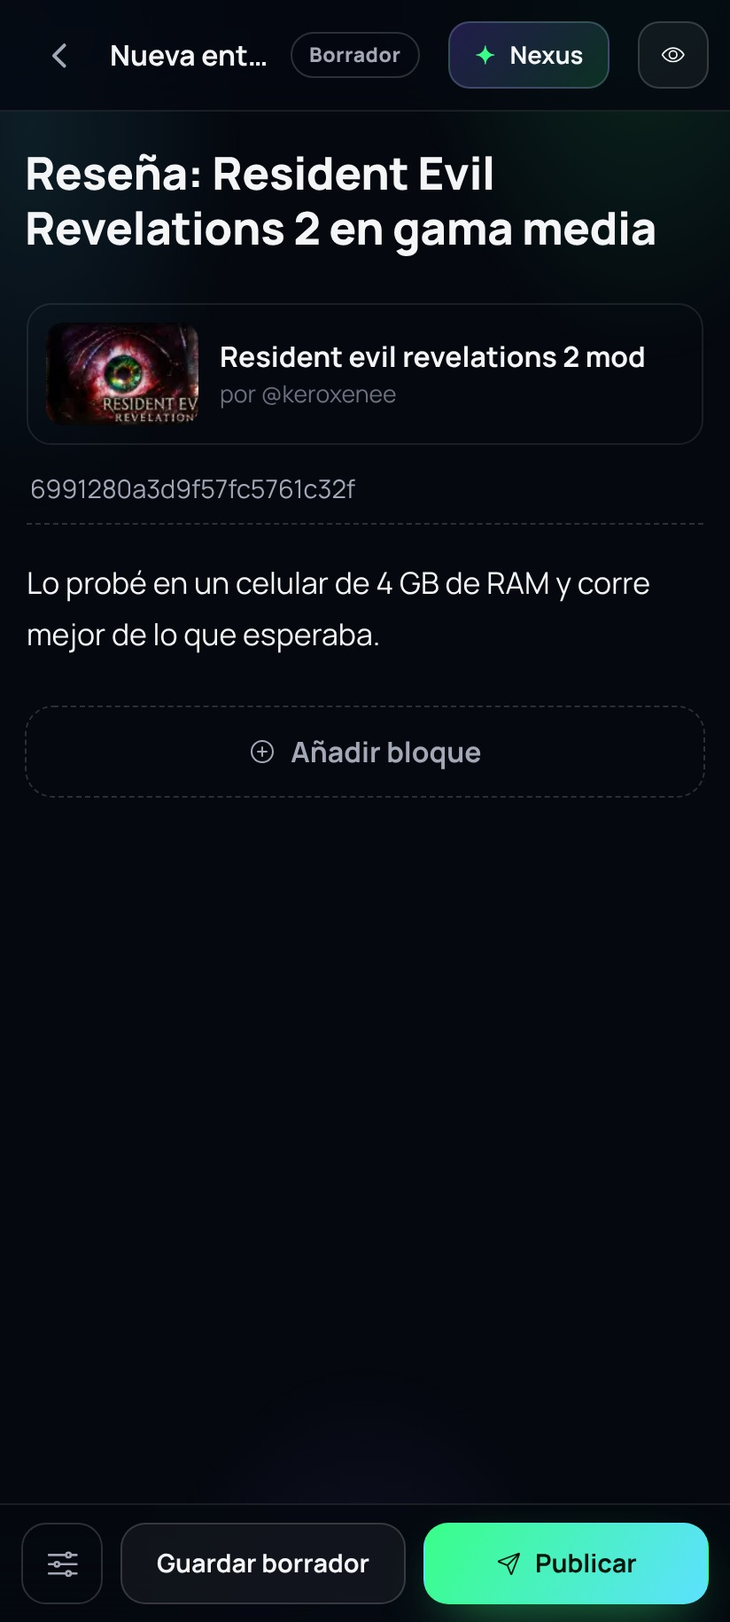
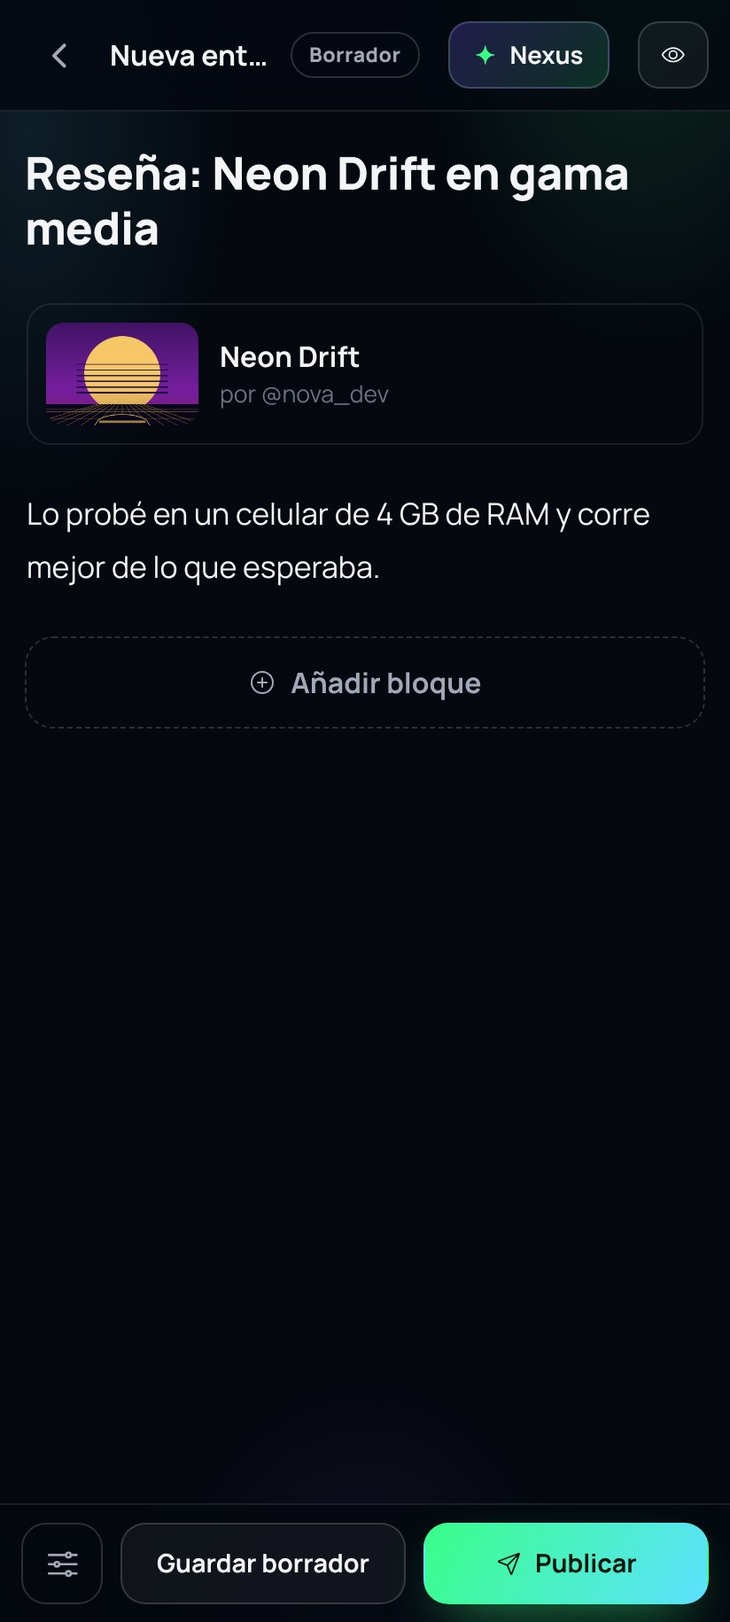
Video Todo UpGames: sin portadas ni juegos comerciales (ilustraciones propias de demostración)
- portadas.js genera portadas, avatar y banner propios con títulos y estudios inventados
- capturar.js usa un catálogo de demostración (ninguna lectura a producción) y las portadas propias
- Capturas regeneradas; el pie del video aclara que el contenido y las cifras son de demostración

Claude-Session: https://claude.ai/code/session_017LtceEAPy6W7rveJiPpW5i

diff --git a/marketing/ecosistema/portadas.js b/marketing/ecosistema/portadas.js
@@ -1,0 +1,93 @@
+#!/usr/bin/env node
+/**
+ * Portadas e imágenes de DEMOSTRACIÓN para el video: ilustraciones propias (hechas con código) con títulos y estudios
+ * inventados, para no mostrar portadas ni marcas de juegos comerciales. Las usa capturar.js en lugar del catálogo real.
+ * Uso: node portadas.js   → portadas/*.jpg (600×800 a 2×), avatar y banner
+ */
+'use strict';
+const path = require('path'), fs = require('fs');
+const { navegador } = require('../../test/real/util');
+const OUT = path.join(__dirname, 'portadas');
+
+const R = s => { let x = Math.sin(s * 127.1) * 43758.5453; return x - Math.floor(x); };
+const estrellas = (n, sem, w = 600, h = 520) => Array.from({ length: n }, (_, i) => `<circle cx="${R(sem + i) * w}" cy="${R(sem + i + 99) * h}" r="${.6 + R(sem + i + 7) * 1.8}" fill="#fff" opacity="${.3 + R(sem + i + 3) * .7}"/>`).join('');
+const MOTIVOS = {
+  // atardecer sobre una pista con un auto de líneas simples
+  sunsetCar: (c) => `<defs><linearGradient id="s" x1="0" y1="0" x2="0" y2="1"><stop offset="0" stop-color="${c[0]}"/><stop offset=".6" stop-color="${c[1]}"/><stop offset="1" stop-color="${c[2]}"/></linearGradient></defs>
+    <rect width="600" height="800" fill="url(#s)"/><circle cx="300" cy="400" r="150" fill="${c[3]}" opacity=".95"/>${[0, 1, 2, 3, 4, 5].map(i => `<rect x="120" y="${360 + i * 22}" width="360" height="${3 + i}" fill="${c[0]}" opacity=".9"/>`).join('')}
+    <path d="M0 520 L600 520 L600 800 L0 800Z" fill="#0b0720"/>${Array.from({ length: 14 }, (_, i) => `<path d="M${300 + (i - 7) * 14} 520 L${300 + (i - 7) * 150} 800" stroke="${c[3]}" stroke-width="2" opacity=".55"/>`).join('')}
+    ${Array.from({ length: 6 }, (_, i) => `<path d="M0 ${540 + i * i * 9} L600 ${540 + i * i * 9}" stroke="${c[3]}" stroke-width="2" opacity=".4"/>`).join('')}
+    <g transform="translate(300 600)"><path d="M-120 20 L-95 -18 Q-60 -40 0 -40 Q60 -40 95 -18 L120 20 Q0 36 -120 20Z" fill="#0b0720" stroke="${c[3]}" stroke-width="3"/><rect x="-92" y="-16" width="184" height="10" rx="5" fill="${c[3]}" opacity=".8"/><circle cx="-76" cy="24" r="17" fill="#0b0720" stroke="${c[3]}" stroke-width="3"/><circle cx="76" cy="24" r="17" fill="#0b0720" stroke="${c[3]}" stroke-width="3"/></g>`,
+  planet: (c) => `<rect width="600" height="800" fill="${c[0]}"/>${estrellas(90, 3)}<defs><radialGradient id="p" cx=".35" cy=".3" r=".9"><stop offset="0" stop-color="${c[3]}"/><stop offset=".55" stop-color="${c[2]}"/><stop offset="1" stop-color="${c[1]}"/></radialGradient></defs>
+    <circle cx="300" cy="330" r="190" fill="url(#p)"/><ellipse cx="300" cy="350" rx="320" ry="62" fill="none" stroke="${c[3]}" stroke-width="10" opacity=".75" transform="rotate(-16 300 350)"/>
+    <path d="M110 330 A190 190 0 0 1 490 330" fill="none" stroke="#fff" stroke-opacity=".12" stroke-width="3"/><circle cx="478" cy="170" r="22" fill="${c[3]}" opacity=".9"/><circle cx="120" cy="560" r="10" fill="${c[3]}" opacity=".8"/>
+    <path d="M0 800 L0 640 Q150 590 300 650 T600 620 L600 800Z" fill="#000" opacity=".5"/>`,
+  peaks: (c) => `<defs><linearGradient id="k" x1="0" y1="0" x2="0" y2="1"><stop offset="0" stop-color="${c[0]}"/><stop offset="1" stop-color="${c[1]}"/></linearGradient></defs><rect width="600" height="800" fill="url(#k)"/>
+    <circle cx="420" cy="260" r="80" fill="${c[3]}" opacity=".9"/>${estrellas(40, 11, 600, 300)}
+    <path d="M0 640 L120 430 L210 540 L330 330 L460 520 L540 440 L600 520 L600 800 L0 800Z" fill="${c[2]}"/><path d="M0 700 L90 560 L200 650 L320 500 L430 640 L600 540 L600 800 L0 800Z" fill="#000" opacity=".45"/>
+    <path d="M330 330 L300 400 L330 380 L350 420 L372 385Z" fill="#fff" opacity=".5"/>${Array.from({ length: 16 }, (_, i) => `<circle cx="${R(i) * 600}" cy="${560 + R(i + 40) * 200}" r="${1 + R(i + 9) * 3}" fill="${c[3]}" opacity=".8"/>`).join('')}`,
+  blade: (c) => `<rect width="600" height="800" fill="${c[0]}"/><defs><linearGradient id="b" x1="0" y1="0" x2="1" y2="1"><stop offset="0" stop-color="${c[3]}"/><stop offset="1" stop-color="${c[2]}"/></linearGradient></defs>
+    ${[0, 1, 2, 3, 4, 5, 6].map(i => `<path d="M${-80 + i * 110} 800 L${240 + i * 60} 0" stroke="${c[1]}" stroke-width="${30 + i * 4}" opacity=".35"/>`).join('')}
+    <g transform="translate(300 380) rotate(-35)"><path d="M0 -300 L28 160 L0 220 L-28 160Z" fill="url(#b)"/><path d="M0 -300 L0 220" stroke="#fff" stroke-opacity=".6" stroke-width="3"/><rect x="-80" y="150" width="160" height="22" rx="11" fill="${c[3]}"/><rect x="-14" y="170" width="28" height="90" rx="10" fill="${c[1]}"/></g>
+    ${estrellas(50, 21, 600, 800)}`,
+  garden: (c) => `<defs><radialGradient id="g" cx=".5" cy=".7" r=".8"><stop offset="0" stop-color="${c[2]}"/><stop offset="1" stop-color="${c[0]}"/></radialGradient></defs><rect width="600" height="800" fill="url(#g)"/>
+    ${Array.from({ length: 9 }, (_, i) => { const x = 40 + i * 64, h = 160 + R(i + 5) * 260; return `<path d="M${x} 800 Q${x + 30 * (R(i) - .5) * 2} ${800 - h / 2} ${x + 10} ${800 - h}" stroke="${c[1]}" stroke-width="10" fill="none" stroke-linecap="round"/><circle cx="${x + 10}" cy="${800 - h}" r="${22 + R(i + 2) * 18}" fill="${c[3]}" opacity=".95"/><circle cx="${x + 10}" cy="${800 - h}" r="${46 + R(i + 2) * 30}" fill="${c[3]}" opacity=".18"/>`; }).join('')}
+    ${Array.from({ length: 30 }, (_, i) => `<circle cx="${R(i + 60) * 600}" cy="${R(i + 61) * 700}" r="${1.5 + R(i) * 3}" fill="${c[3]}" opacity=".7"/>`).join('')}`,
+  moon: (c) => `<defs><linearGradient id="m" x1="0" y1="0" x2="0" y2="1"><stop offset="0" stop-color="${c[0]}"/><stop offset="1" stop-color="${c[1]}"/></linearGradient></defs><rect width="600" height="800" fill="url(#m)"/>${estrellas(60, 31, 600, 500)}
+    <circle cx="300" cy="300" r="170" fill="${c[3]}"/><circle cx="360" cy="270" r="170" fill="${c[1]}" opacity=".0"/><circle cx="250" cy="260" r="26" fill="#000" opacity=".12"/><circle cx="350" cy="350" r="40" fill="#000" opacity=".1"/>
+    <path d="M0 800 L0 600 Q60 540 120 600 L120 470 L150 440 L180 470 L180 600 Q300 520 420 600 L420 500 L470 450 L520 500 L520 600 Q570 560 600 600 L600 800Z" fill="#000"/>
+    <rect x="132" y="520" width="14" height="22" fill="${c[3]}" opacity=".9"/><rect x="452" y="540" width="14" height="22" fill="${c[3]}" opacity=".9"/>`,
+  waves: (c) => `<rect width="600" height="800" fill="${c[0]}"/><defs><linearGradient id="w" x1="0" y1="0" x2="0" y2="1"><stop offset="0" stop-color="${c[3]}"/><stop offset="1" stop-color="${c[1]}"/></linearGradient></defs>
+    <circle cx="300" cy="300" r="120" fill="${c[3]}"/>${[0, 1, 2, 3, 4, 5, 6].map(i => `<path d="M0 ${420 + i * 60} Q75 ${390 + i * 60} 150 ${420 + i * 60} T300 ${420 + i * 60} T450 ${420 + i * 60} T600 ${420 + i * 60} L600 800 L0 800Z" fill="${i % 2 ? c[1] : c[2]}" opacity="${.55 + i * .07}"/>`).join('')}
+    ${Array.from({ length: 12 }, (_, i) => `<rect x="${R(i + 2) * 560}" y="${R(i + 3) * 380}" width="14" height="14" fill="#fff" opacity=".6"/>`).join('')}`,
+  station: (c) => `<rect width="600" height="800" fill="${c[0]}"/>${estrellas(80, 41, 600, 800)}<g transform="translate(300 380)"><circle r="120" fill="${c[2]}" stroke="${c[3]}" stroke-width="6"/><circle r="70" fill="${c[1]}" stroke="${c[3]}" stroke-width="4"/>
+    <rect x="-300" y="-16" width="600" height="32" fill="${c[1]}" stroke="${c[3]}" stroke-width="3"/>${[-250, -200, 200, 250].map(x => `<rect x="${x - 22}" y="-90" width="44" height="180" fill="${c[3]}" opacity=".35" stroke="${c[3]}"/>`).join('')}
+    ${Array.from({ length: 8 }, (_, i) => `<circle cx="${Math.cos(i * .785) * 95}" cy="${Math.sin(i * .785) * 95}" r="7" fill="${c[3]}"/>`).join('')}</g>`,
+  orb: (c) => `<defs><radialGradient id="o" cx=".5" cy=".5" r=".5"><stop offset="0" stop-color="#fff"/><stop offset=".25" stop-color="${c[3]}"/><stop offset="1" stop-color="${c[0]}" stop-opacity="0"/></radialGradient></defs><rect width="600" height="800" fill="${c[0]}"/>
+    <circle cx="300" cy="360" r="330" fill="url(#o)"/>${[1, 2, 3, 4, 5].map(i => `<circle cx="300" cy="360" r="${60 + i * 52}" fill="none" stroke="${c[3]}" stroke-width="1.5" opacity="${.5 - i * .07}"/>`).join('')}
+    ${Array.from({ length: 22 }, (_, i) => { const a = i * .6, r = 90 + i * 11; return `<circle cx="${300 + Math.cos(a) * r}" cy="${360 + Math.sin(a) * r}" r="${2 + R(i) * 4}" fill="#fff" opacity=".8"/>`; }).join('')}`,
+  circuit: (c) => `<rect width="600" height="800" fill="${c[0]}"/>${Array.from({ length: 16 }, (_, i) => { const y = 80 + i * 44, x1 = R(i + 70) * 200, x2 = 300 + R(i + 71) * 300; return `<path d="M0 ${y} H${x1} L${x1 + 40} ${y + 22} H${x2} L${x2 + 30} ${y} H600" fill="none" stroke="${c[2]}" stroke-width="3" opacity=".7"/><circle cx="${x1 + 40}" cy="${y + 22}" r="6" fill="${c[3]}"/><circle cx="${x2 + 30}" cy="${y}" r="6" fill="${c[3]}"/>`; }).join('')}
+    <g transform="translate(300 400)"><path d="M-130 40 L-100 -30 Q-60 -60 0 -60 Q60 -60 100 -30 L130 40 Q0 62 -130 40Z" fill="${c[1]}" stroke="${c[3]}" stroke-width="4"/><circle cx="-80" cy="48" r="22" fill="${c[0]}" stroke="${c[3]}" stroke-width="4"/><circle cx="80" cy="48" r="22" fill="${c[0]}" stroke="${c[3]}" stroke-width="4"/><path d="M-70 -32 Q0 -52 70 -32" stroke="${c[3]}" stroke-width="5" fill="none"/></g>`,
+  dunes: (c) => `<defs><linearGradient id="d" x1="0" y1="0" x2="0" y2="1"><stop offset="0" stop-color="${c[0]}"/><stop offset=".55" stop-color="${c[1]}"/><stop offset="1" stop-color="${c[2]}"/></linearGradient></defs><rect width="600" height="800" fill="url(#d)"/>
+    <circle cx="300" cy="330" r="110" fill="${c[3]}" opacity=".95"/>${[0, 1, 2, 3].map(i => `<path d="M0 ${520 + i * 70} Q150 ${440 + i * 70} 320 ${520 + i * 70} T600 ${500 + i * 70} L600 800 L0 800Z" fill="${c[2]}" opacity="${.35 + i * .2}"/>`).join('')}
+    <g transform="translate(300 480)"><path d="M-6 0 L0 -70 L6 0Z" fill="#000"/><circle cx="0" cy="-78" r="8" fill="#000"/><path d="M-30 -40 L30 -40" stroke="#000" stroke-width="4"/></g>`,
+  stars: (c) => `<defs><radialGradient id="n" cx=".5" cy=".4" r=".8"><stop offset="0" stop-color="${c[2]}"/><stop offset="1" stop-color="${c[0]}"/></radialGradient></defs><rect width="600" height="800" fill="url(#n)"/>${estrellas(140, 51, 600, 800)}
+    <path d="M300 130 L335 270 L480 300 L335 335 L300 480 L265 335 L120 300 L265 270Z" fill="${c[3]}"/><path d="M300 130 L335 270 L480 300 L335 335 L300 480 L265 335 L120 300 L265 270Z" fill="none" stroke="#fff" stroke-width="3" opacity=".8"/>
+    <circle cx="300" cy="300" r="260" fill="none" stroke="${c[3]}" stroke-width="1.5" opacity=".4"/><circle cx="300" cy="300" r="200" fill="none" stroke="${c[3]}" stroke-width="1.5" opacity=".3"/>`,
+};
+// título, estudio ficticio, paleta [fondo, medio, oscuro/acento, brillo], motivo
+const PORTADAS = [
+  ['neon-drift', 'NEON DRIFT', 'sunsetCar', ['#1a0b3b', '#7a1fa2', '#ff3d81', '#ffd166']],
+  ['void-harvest', 'VOID HARVEST', 'planet', ['#050a1c', '#10286b', '#2d6df6', '#7dd3fc']],
+  ['emberfall', 'EMBERFALL', 'peaks', ['#2a0a0a', '#7a1d12', '#c2410c', '#ffb347']],
+  ['skyblade', 'SKYBLADE', 'blade', ['#04141c', '#0a4a5a', '#0ea5b7', '#a7f3d0']],
+  ['echo-garden', 'ECHO GARDEN', 'garden', ['#031a14', '#0f766e', '#0b3d2e', '#6ee7b7']],
+  ['crypt-signal', 'CRYPT SIGNAL', 'moon', ['#0a0a14', '#1e1b4b', '#4338ca', '#e0e7ff']],
+  ['pixel-tide', 'PIXEL TIDE', 'waves', ['#07102a', '#1d4ed8', '#38bdf8', '#fde68a']],
+  ['iron-orbit', 'IRON ORBIT', 'station', ['#06080f', '#1f2937', '#475569', '#f59e0b']],
+  ['lumen', 'LUMEN', 'orb', ['#0a0420', '#4c1d95', '#7c3aed', '#c4b5fd']],
+  ['turbo-circuit', 'TURBO CIRCUIT', 'circuit', ['#06121a', '#0e3a4a', '#14b8a6', '#5eead4']],
+  ['ashen-vale', 'ASHEN VALE', 'dunes', ['#2b1408', '#7c3a14', '#3a1d0a', '#fcd34d']],
+  ['starlorn', 'STARLORN', 'stars', ['#03030c', '#1a1050', '#3b2ea8', '#ffd6f5']],
+];
+const pagina = (id, titulo, motivo, c, sub) => `<!DOCTYPE html><html><head><meta charset="utf-8"><link href="https://fonts.googleapis.com/css2?family=Orbitron:wght@800;900&family=Manrope:wght@600;800&display=block" rel="stylesheet">
+<style>html,body{margin:0;width:600px;height:800px;overflow:hidden;background:#000}svg{position:absolute;inset:0}
+.t{position:absolute;left:0;right:0;bottom:70px;text-align:center;font:900 62px/1 Orbitron,sans-serif;color:#fff;letter-spacing:.02em;text-shadow:0 4px 30px rgba(0,0,0,.7),0 0 40px ${c[3]}88;padding:0 24px}
+.s{position:absolute;left:0;right:0;bottom:34px;display:none;text-align:center;font:800 15px Manrope,sans-serif;letter-spacing:.32em;color:${c[3]};text-transform:uppercase}
+.v{position:absolute;inset:0;background:linear-gradient(180deg,rgba(0,0,0,.25),transparent 28%,transparent 56%,rgba(0,0,0,.6))}</style></head>
+<body><svg viewBox="0 0 600 800" width="600" height="800">${MOTIVOS[motivo](c)}</svg><div class="v"></div><div class="t">${titulo}</div><div class="s">${sub}</div></body></html>`;
+
+(async () => {
+  fs.mkdirSync(OUT, { recursive: true });
+  const b = await navegador(), ctx = await b.newContext({ viewport: { width: 600, height: 800 }, deviceScaleFactor: 2 }), p = await ctx.newPage();
+  for (const [id, titulo, motivo, c] of PORTADAS) {
+    await p.setContent(pagina(id, titulo, motivo, c, '')); await p.evaluate(() => document.fonts.ready); await p.waitForTimeout(300);
+    await p.screenshot({ path: path.join(OUT, id + '.jpg'), type: 'jpeg', quality: 90 }); console.log('  ✓', id);
+  }
+  // avatar y banner de la cuenta de demostración
+  const q = await (await b.newContext({ viewport: { width: 400, height: 400 }, deviceScaleFactor: 2 })).newPage();
+  await q.setContent(`<body style="margin:0;width:400px;height:400px;background:radial-gradient(circle at 30% 25%,#5ce1ff,#39ff88 45%,#0b3d2e);display:grid;place-items:center;font:900 190px Orbitron,sans-serif;color:#031109">N</body>`); await q.screenshot({ path: path.join(OUT, 'avatar.jpg'), type: 'jpeg', quality: 90 });
+  const w = await (await b.newContext({ viewport: { width: 1500, height: 500 }, deviceScaleFactor: 1 })).newPage();
+  await w.setContent(`<body style="margin:0;width:1500px;height:500px;background:radial-gradient(60% 90% at 20% 20%,#39ff8866,transparent),radial-gradient(60% 90% at 85% 80%,#8f7bff88,transparent),linear-gradient(120deg,#04101c,#0b1f3a 60%,#1a0f3a)"><svg width="1500" height="500" style="position:absolute">${Array.from({ length: 40 }, (_, i) => `<circle cx="${R(i + 7) * 1500}" cy="${R(i + 8) * 500}" r="${1 + R(i) * 3}" fill="#fff" opacity=".6"/>`).join('')}<path d="M0 420 Q250 330 520 410 T1040 380 T1500 400 V500 H0Z" fill="#000" opacity=".35"/></svg></body>`); await w.screenshot({ path: path.join(OUT, 'banner.jpg'), type: 'jpeg', quality: 90 });
+  await b.close();
+})();

diff --git a/marketing/ecosistema/capturar.js b/marketing/ecosistema/capturar.js
@@ -1,6 +1,6 @@
 #!/usr/bin/env node
 /**
- * Captura pantallas REALES de UpGames para el video «Todo UpGames»: la biblioteca, el carrusel, la ficha,
+" * Captura pantallas de la interfaz REAL de UpGames para el video «Todo UpGames»: la biblioteca, el carrusel, la ficha,
  * el feed de videos, NEXUS, un perfil, UpGames Blogs… con el catálogo y las imágenes reales de producción
  * (solo lecturas) y en un móvil (412×915 a 2×). Las guarda en img/. Uso: node capturar.js [nombre…]
  */
@@ -8,6 +8,17 @@
 const path = require('path'), fs = require('fs');
 const { servir, navegador } = require('../../test/real/util');
 const API = 'https://upgames-production.up.railway.app';
+const DEMO = 'https://demo.upgames.test';   // portadas propias (portadas.js): no se muestran imágenes ni nombres de juegos comerciales
+const hex = n => n.toString(16).padStart(24, '0');
+const FICHA = [  // id, título, categoría, usuario, descargas, reseñas, días
+  ['neon-drift', 'Neon Drift', 'Juego', 'nova_dev', 18420, [4.7, 128], 3], ['void-harvest', 'Void Harvest · mod de rendimiento', 'Mod', 'kale_ab', 9310, [4.4, 61], 5], ['emberfall', 'Emberfall', 'Juego', 'pixelforge', 5120, [4.2, 33], 9],
+  ['skyblade', 'Skyblade', 'Juego', 'nova_dev', 7740, [4.6, 52], 12], ['echo-garden', 'Echo Garden', 'Juego', 'lumen_labs', 3980, [4.8, 40], 2], ['crypt-signal', 'Crypt Signal · optimizado para 4 GB', 'Optimizacion', 'kale_ab', 2210, null, 20],
+  ['pixel-tide', 'Pixel Tide', 'Juego', 'pixelforge', 1530, [4.1, 12], 1], ['iron-orbit', 'Iron Orbit', 'Apps', 'lumen_labs', 6660, [4.5, 47], 15], ['lumen', 'Lumen · editor de luces', 'Apps', 'lumen_labs', 4120, [4.9, 71], 30],
+  ['turbo-circuit', 'Turbo Circuit', 'Juego', 'nova_dev', 11890, [4.5, 96], 4], ['ashen-vale', 'Ashen Vale · pack de texturas', 'Mod', 'kale_ab', 2840, [4.0, 9], 22], ['starlorn', 'Starlorn · gameplay', 'Video', 'nova_dev', 940, null, 6], ['emberfall', 'Emberfall · tráiler', 'Video', 'pixelforge', 2210, null, 7], ['lumen', 'Lumen · tutorial de luces', 'Video', 'lumen_labs', 1560, null, 8]];
+const CATALOGO = FICHA.map(([img, titulo, cat, usuario, d, r, dias], i) => ({ _id: hex(i + 1), title: titulo, usuario, category: cat, status: 'aprobado', linkStatus: 'online', reportes: 0, link: cat === 'Video' ? `${DEMO}/v/${img}.mp4` : 'https://example.com/demo', image: `${DEMO}/portadas/${img}.jpg`,
+  description: 'Proyecto de demostración creado para este video. ' + (cat === 'Mod' ? 'Mejora el rendimiento en celulares de gama media. Contraseña del archivo: demo.' : 'Una experiencia ligera para tu móvil.'),
+  descargasEfectivas: d, descargasSemana: Math.round(d / 40), likesCount: Math.round(d / 90), vistas: d * 3, createdAt: new Date(Date.now() - dias * 864e5).toISOString(), updatedAt: new Date(Date.now() - Math.min(dias, 2) * 864e5).toISOString(),
+  scoreRecomendacion: 100 - i, ...(r ? { resenas: { promedio: r[0], n: r[1] } } : {}), ...(cat === 'Video' ? { videoType: 'Gameplay' } : {}), tags: [], extraData: {} }));
 const OUT = path.join(__dirname, 'img');
 const espera = ms => new Promise(r => setTimeout(r, ms));
 const solo = process.argv.slice(2);
@@ -20,10 +31,18 @@ const quiere = n => !solo.length || solo.includes(n);
   const mock = new Map();   // ruta (regex) → respuesta JSON simulada
   await ctx.route('**/*', async r => {
     const u = r.request().url(), m = r.request().method();
-    if (u.startsWith(web.url) || /res\.cloudinary|fonts\.g|unpkg|ytimg|youtube/.test(u)) return r.continue();
+    if (u.startsWith(web.url) || /fonts\.g|unpkg|ytimg|youtube/.test(u)) return r.continue();
+    if (u.startsWith(DEMO) && /\.mp4/.test(u)) return r.abort();
+    if (u.startsWith(DEMO)) { const f = path.join(__dirname, new URL(u).pathname); return fs.existsSync(f) ? r.fulfill({ body: fs.readFileSync(f), contentType: 'image/jpeg' }) : r.abort(); }
     for (const [re, fn] of mock) if (re.test(u)) return r.fulfill({ status: 200, contentType: 'application/json', headers: { 'access-control-allow-origin': '*' }, body: JSON.stringify(typeof fn === 'function' ? fn(u, m) : fn) });
-    if (u.startsWith(API) && m === 'GET' && !/\/(m|errores|auth|monedas|notificaciones|nexus|guia)\b/.test(u)) {
-      try { const resp = await r.fetch({ headers: { ...r.request().headers(), origin: 'https://upgames.games', referer: 'https://upgames.games/public/biblioteca.html' } }); return r.fulfill({ status: resp.status(), body: await resp.body(), contentType: 'application/json', headers: { 'access-control-allow-origin': '*' } }); } catch (_) { return r.abort(); }
+    if (u.startsWith(API) && m === 'GET') {   // todo el contenido que se ve es de demostración: ninguna lectura va a producción
+      const id = (u.match(/\/items\/([a-f0-9]{24})(\?|$)/) || [])[1];
+      const j = v => r.fulfill({ status: 200, contentType: 'application/json', headers: { 'access-control-allow-origin': '*' }, body: JSON.stringify(v) });
+      if (/\/items(\?.*)?$/.test(u)) return j(CATALOGO);
+      if (id) return j(CATALOGO.find(i => i._id === id) || {});
+      if (/\/items\/user\//.test(u)) return j(CATALOGO.filter(i => i.usuario === decodeURIComponent(u.split('/items/user/')[1].split('?')[0])));
+      if (/\/usuarios\/perfil-publico\//.test(u)) return j({ success: true, usuario: { usuario: 'nova_dev', isVerificado: true, verificadoNivel: 2, avatar: `${DEMO}/portadas/avatar.jpg`, bio: 'Estudio indie · juegos ligeros para móvil', fecha: new Date(Date.now() - 300 * 864e5).toISOString(), socialLinks: [], banner: `${DEMO}/portadas/banner.jpg`, estilo: { insignias: ['ins_fundador'], marco: 'marco_oro', color: 'color_oro', fondo: 'fondo_atardecer', tarjeta: 'tj_carbono' }, coleccion: { total: 3, insignias: ['ins_fundador'] }, premium: true, publicaciones: 3, seguidores: 1280, siguiendo: 14 } });
+      return j([]);
     }
     return r.fulfill({ status: 200, body: '[]', contentType: 'application/json', headers: { 'access-control-allow-origin': '*' } });
   });
@@ -42,7 +61,7 @@ const quiere = n => !solo.length || solo.includes(n);
       await p.evaluate(() => document.querySelector('.ugc-dots [data-dot="2"]')?.click()); await espera(1800); await foto(p, 'carrusel');
     }
     if (quiere('ficha')) {
-      await p.evaluate(() => { const it = todosLosItems.find(i => i.title === 'Resident evil revelations 2 mod') || todosLosItems.find(i => i.category === 'Mod'); openDetail(it); }); await espera(2500); await quitarRuido(p);
+      await p.evaluate(() => { const it = todosLosItems.find(i => i.title === 'Neon Drift'); openDetail(it); }); await espera(2500); await quitarRuido(p);
       await foto(p, 'ficha'); await p.evaluate(() => closeDetail()); await espera(700);
     }
     if (quiere('feed')) {
@@ -53,30 +72,30 @@ const quiere = n => !solo.length || solo.includes(n);
       mock.set(/\/nexus\/historial/, { ok: true, historial: [] });
       mock.set(/\/nexus\/chat/, { ok: true, texto: 'Para tu celular de **4 GB de RAM** te recomiendo estos tres, ordenados por rendimiento:', items: [], acciones: [] });
       await p.evaluate(() => { window.ugPedirSesion = () => true; nxToggle(); }); await espera(1200);
-      await p.evaluate(() => { NX.msgs = [{ rol: 'user', texto: 'Juegos de carreras que corran bien en 4 GB de RAM' }, { rol: 'assistant', texto: 'Encontré **3 juegos de carreras** que corren fluido en 4 GB de RAM. Los ordené por rendimiento real que reportó la comunidad:', items: todosLosItems.filter(i => /nfs|f1|formula|forza|racing|gta/i.test(i.title) && !/mp4|webm/.test(i.image)).slice(0, 3).map(i => ({ id: i._id, titulo: i.title, imagen: i.image, categoria: i.category, descargas: i.descargasEfectivas || 0, autor: i.usuario })), acciones: [] }]; nxPintar(); }); await espera(1500);
+      await p.evaluate(() => { NX.msgs = [{ rol: 'user', texto: 'Juegos de carreras que corran bien en 4 GB de RAM' }, { rol: 'assistant', texto: 'Encontré **3 juegos de carreras** que corren fluido en 4 GB de RAM. Los ordené por rendimiento real que reportó la comunidad:', items: todosLosItems.filter(i => /neon drift|turbo circuit|skyblade/i.test(i.title)).slice(0, 3).map(i => ({ id: i._id, titulo: i.title, imagen: i.image, categoria: i.category, descargas: i.descargasEfectivas || 0, autor: i.usuario })), acciones: [] }]; nxPintar(); }); await espera(1500);
       await foto(p, 'nexus');
     }
     await p.close();
   }
   if (quiere('perfil')) {
-    p = await ctx.newPage(); await p.goto(`${web.url}/perfil-publico.html?usuario=keroxenee`, { waitUntil: 'domcontentloaded' }); await espera(6500); await foto(p, 'perfil'); await p.close();
+    p = await ctx.newPage(); await p.goto(`${web.url}/perfil-publico.html?usuario=nova_dev`, { waitUntil: 'domcontentloaded' }); await espera(6500); await foto(p, 'perfil'); await p.close();
   }
   if (quiere('live')) {
     p = await ctx.newPage(); await p.goto(`${web.url}/live.html`, { waitUntil: 'domcontentloaded' }); await espera(5000); await foto(p, 'live'); await p.close();
   }
   if (quiere('blog')) {
     // 1) Páginas públicas del blog, generadas por el render REAL (modulos/blogs/render.js) con datos reales del catálogo
-    const R = require('../../modulos/blogs/render'), items = JSON.parse(fs.readFileSync('/tmp/items.json', 'utf8'));
-    const it = items.find(i => i.title === 'Resident evil revelations 2 mod'), it2 = items.find(i => /Formula 1/.test(i.title));
+    const R = require('../../modulos/blogs/render'), items = CATALOGO;
+    const it = items.find(i => i.title === 'Neon Drift'), it2 = items.find(i => i.title === 'Turbo Circuit');
     const juegos = { [it._id]: { title: it.title, image: it.image, usuario: it.usuario }, [it2._id]: { title: it2.title, image: it2.image, usuario: it2.usuario } };
     const base = { usuario: 'kale_ab', titulo: 'Kale · Mods y trucos', descripcion: 'Reseñas, guías y noticias de mods para móvil', direccion: 'kale-mods', ajustes: { acento: '' }, tema: 'neon' };
     const ctxB = tema => ({ blog: { ...base, tema }, base: '/b/kale-mods', origen: 'https://upgames-production.up.railway.app', appUrl: 'https://upgames.games', paginas: [{ titulo: 'Sobre mí', slug: 'sobre-mi' }], autor: { usuario: 'kale_ab', avatar: '', bio: 'Pruebo mods en gama media' }, populares: [], nube: ['android', 'mods', 'guías'], juegos, sinMarca: tema !== 'neon' });
-    const entrada = { _id: 'a'.repeat(24), titulo: 'Reseña: Resident Evil Revelations 2 en gama media', slug: 'resena', tipo: 'entrada', publicadaEn: new Date(), etiquetas: ['android', 'reseña'], portada: it.image, bloques: [
+    const entrada = { _id: 'a'.repeat(24), titulo: 'Reseña: Neon Drift en gama media', slug: 'resena', tipo: 'entrada', publicadaEn: new Date(), etiquetas: ['android', 'reseña'], portada: it.image, bloques: [
       { tipo: 'texto', texto: 'Lo probé en un celular de **4 GB de RAM** y corre mejor de lo que esperaba. Esto fue lo que encontré.', grande: true },
       { tipo: 'titulo', texto: 'Lo mejor' }, { tipo: 'texto', texto: '- Corre fluido a 30 FPS\n- La instalación toma 5 minutos\n- Los controles táctiles son cómodos' },
-      { tipo: 'ficha', titulo: 'Ficha', filas: [{ k: 'Género', v: 'Terror' }, { k: 'Plataforma', v: 'Android' }, { k: 'Peso', v: '1,2 GB' }] },
-      { tipo: 'aviso', estilo: 'exito', texto: '**Nota final: 8/10.** Recomendado si te gusta el terror.' }, { tipo: 'descarga', id: it._id }] };
-    const lista = [0, 1, 2].map(i => ({ titulo: ['Reseña: Resident Evil Revelations 2', 'Guía: Formula 1 2014 en Android', 'Top 5 mods de carreras'][i], slug: 's' + i, portada: [it.image, it2.image, it.image][i], resumen: 'Lo probé en gama media y esto fue lo que pasó.', bloques: [], etiquetas: ['android'], publicadaEn: new Date() }));
+      { tipo: 'ficha', titulo: 'Ficha', filas: [{ k: 'Género', v: 'Carreras' }, { k: 'Plataforma', v: 'Android' }, { k: 'Peso', v: '1,2 GB' }] },
+      { tipo: 'aviso', estilo: 'exito', texto: '**Nota final: 8/10.** Recomendado si te gustan las carreras arcade.' }, { tipo: 'descarga', id: it._id }] };
+    const lista = [0, 1, 2].map(i => ({ titulo: ['Reseña: Neon Drift', 'Guía: Turbo Circuit en Android', 'Top 5 mods de carreras'][i], slug: 's' + i, portada: [it.image, it2.image, it.image][i], resumen: 'Lo probé en gama media y esto fue lo que pasó.', bloques: [], etiquetas: ['android'], publicadaEn: new Date() }));
     for (const [tema, tipo] of [['neon', 'entrada'], ['cristal', 'inicio'], ['lienzo', 'inicio']]) {
       const html = tipo === 'entrada' ? R.entrada(ctxB(tema), entrada) : R.inicio(ctxB(tema), { entradas: lista, pagina: 1, hayMas: false, etiqueta: '' });
       const q = await ctx.newPage(); await q.setContent(html.replace(/<iframe[^>]*comentarios[^>]*><\/iframe>/g, ''), { waitUntil: 'load' }); await q.addStyleTag({ content: '.pixel{display:none}' }); await espera(2500);
@@ -90,8 +109,8 @@ const quiere = n => !solo.length || solo.includes(n);
     const e = await ctx.newPage(); await e.addInitScript(() => { localStorage.setItem('token', 'x'.repeat(48)); localStorage.setItem('user_admin', 'kale_ab'); });
     await e.goto(`${web.url}/blog.html?juego=${it._id}`, { waitUntil: 'domcontentloaded' }); await espera(3500);
     await e.evaluate(() => { document.querySelector('#hoja')?.click(); }); await espera(600);
-    await e.evaluate(() => { const t = document.querySelector('#titulo'); if (t) { t.value = 'Reseña: Resident Evil Revelations 2 en gama media'; t.dispatchEvent(new Event('input')); } const r = document.querySelector('.rico'); if (r) r.textContent = 'Lo probé en un celular de 4 GB de RAM y corre mejor de lo que esperaba.'; }); await espera(800);
-    await foto(e, 'editor'); await e.close();
+    await e.evaluate(() => { const t = document.querySelector('#titulo'); if (t) { t.value = 'Reseña: Neon Drift en gama media'; t.dispatchEvent(new Event('input')); } const r = document.querySelector('.rico'); if (r) r.textContent = 'Lo probé en un celular de 4 GB de RAM y corre mejor de lo que esperaba.'; }); await espera(800);
+    await e.addStyleTag({ content: '.b-juego > input{display:none!important}' }); await foto(e, 'editor'); await e.close();
   }
   await b.close(); web.cerrar();
 })().catch(e => { console.error('FALLO', e); process.exit(1); });

diff --git a/marketing/ecosistema/video.html b/marketing/ecosistema/video.html
@@ -58,7 +58,7 @@ html, body { width: 1920px; height: 1080px; overflow: hidden; background: var(--
   <div id="malla"></div>
   <div id="escenas"></div>
   <div id="vin"></div><div id="destello"></div>
-  <div id="nota">Capturas reales de UpGames · cifras de ejemplo · upgames.games</div>
+  <div id="nota">Interfaz real de UpGames · contenido y cifras de demostración · upgames.games</div>
 </div>
 <script>
 'use strict';
